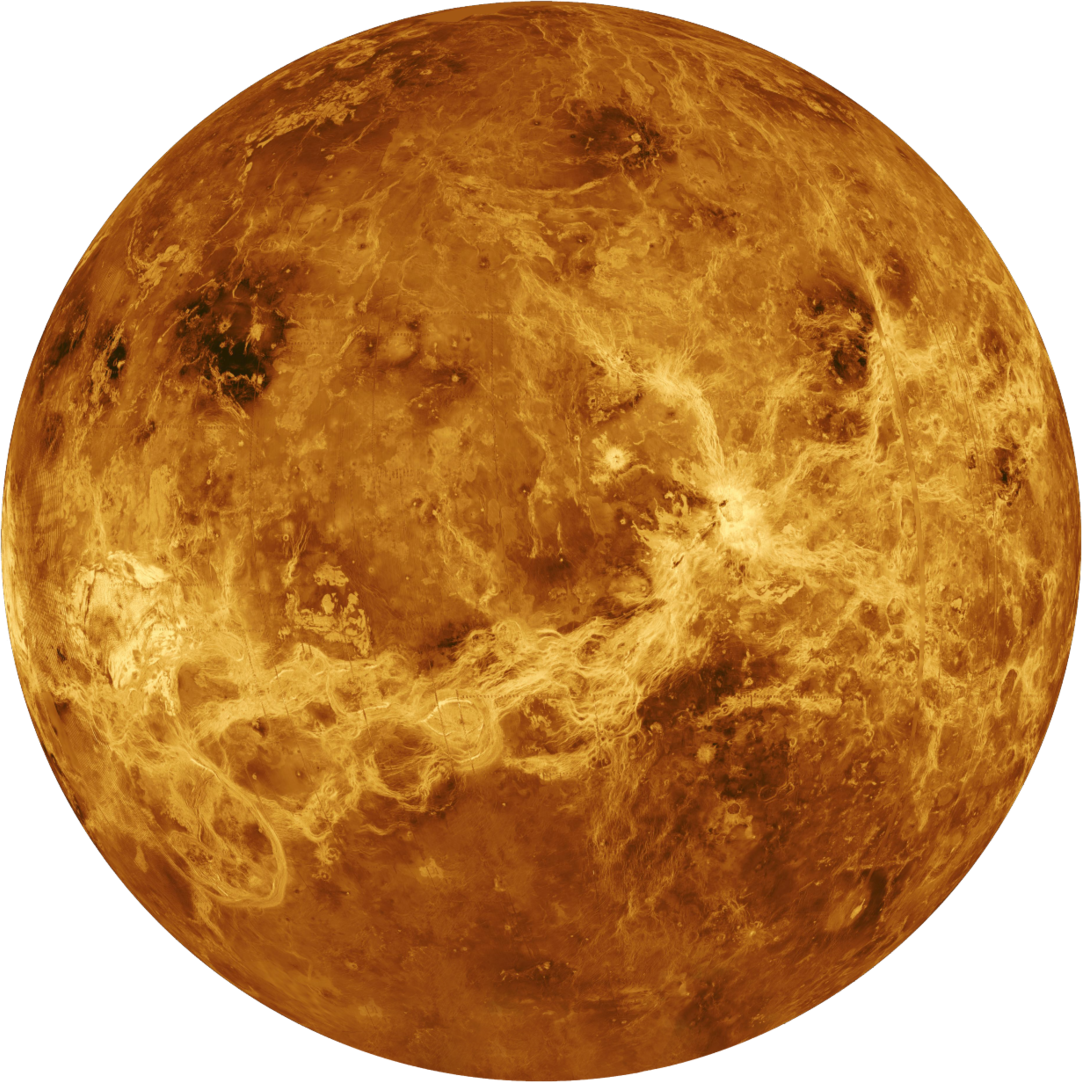
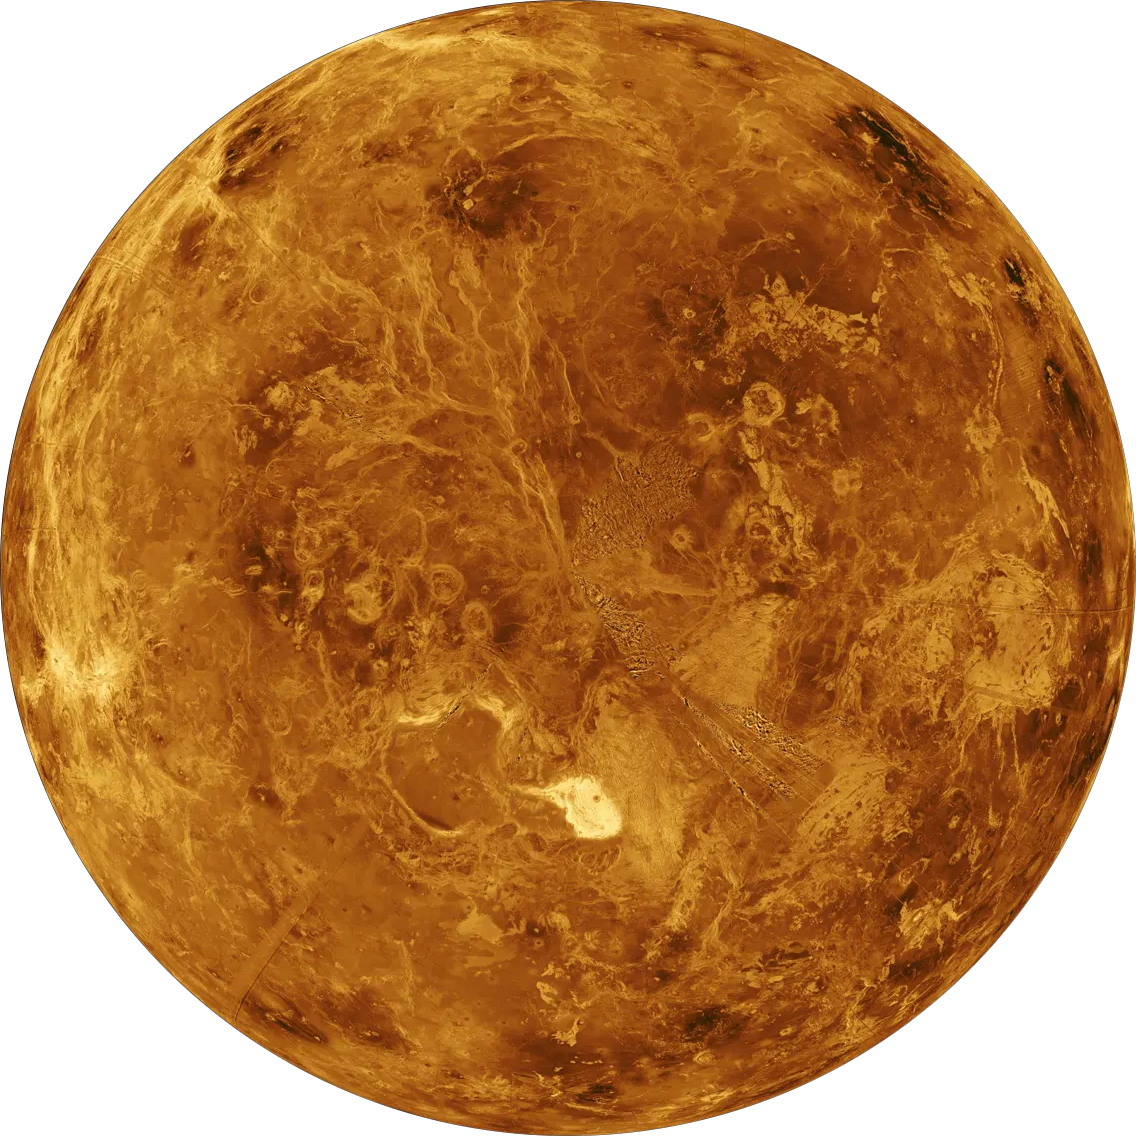
added surface and side photos for all planets and sun.

diff --git a/src/PlanetaryInfo.js b/src/PlanetaryInfo.js
@@ -15,11 +15,18 @@ const PlanetaryInfo = (props) => {
       ref={props.planetaryInfoPanel}
       onTransitionEnd={resetPlanetaryInfoState}
     >
+      <img
+        alt={planetClickKey[props.planetaryInfoSelector]}
+        src={`images/${planetClickKey[props.planetaryInfoSelector]}Surface.jpg`}
+        id="planetSurface"
+      />
       {props.planetaryInfoSelector !== '' && (
-        <>
+        <div id="planetaryInfoContainer">
           <img
             alt={planetClickKey[props.planetaryInfoSelector]}
-            src={`images/${planetClickKey[props.planetaryInfoSelector]}.png`}
+            src={`images/${
+              planetClickKey[props.planetaryInfoSelector]
+            }Side.png`}
             id="planetaryFactsImage"
           />
           <ul id="planetaryFactsUl">
@@ -81,7 +88,7 @@ const PlanetaryInfo = (props) => {
               </li>
             )}
           </ul>
-        </>
+        </div>
       )}
     </div>
   );

diff --git a/src/styles/PlanetaryInfo.css b/src/styles/PlanetaryInfo.css
@@ -14,6 +14,17 @@
   transition-duration: 1s;
 }
 
+#planetaryInfoContainer {
+  z-index: 3;
+}
+
+#planetSurface {
+  position: absolute;
+  opacity: 0.15;
+  min-height: 65em;
+  width: auto;
+}
+
 #planetaryInfoTitle {
   color: #afeeee;
   font-size: 6em;
